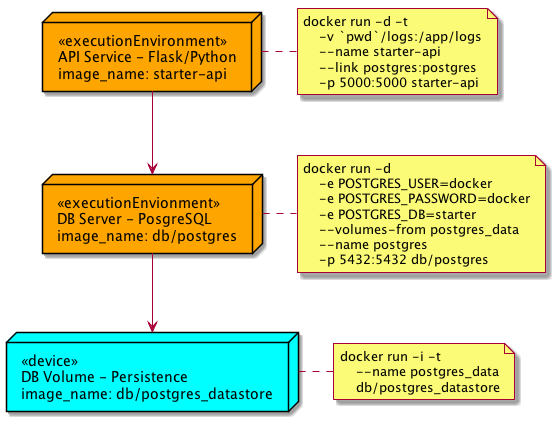
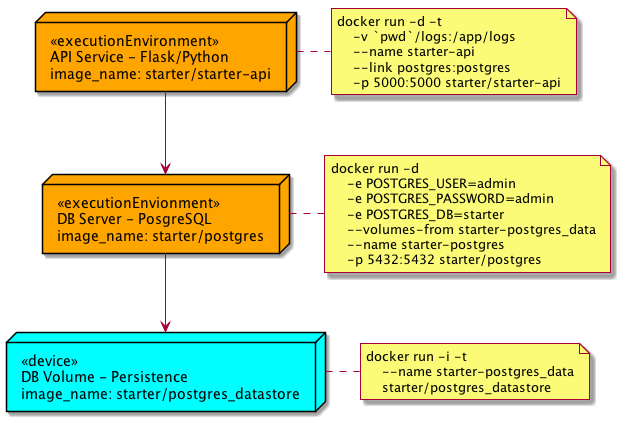
update README.md

diff --git a/README.md b/README.md
@@ -1,5 +1,5 @@
-## Microservices Architecture
-This example has been composed from the Microserivices Architecture style.
+# Microservices Architecture
+This example has been composed as the Microserivices Architecture style.
 With this style, we could provide service components with a realistic compostability. We recommend to read the Martin Fowler and James Lewis's white paper on Microservice architecture. Their white paper goes much more in-depth for the drivers behind the [Microservice Architecture](http://martinfowler.com/articles/microservices.html)
 
 Starter microservices documentations:
@@ -34,45 +34,70 @@ To shutdown and clear out the application stack,
 ./cleanupImages.sh
 ```
 
-To achieve any in between application state or retaining the built docker images,
+To achieve any in-between application state or retaining the built docker images,
 adjust the script running accordingly.
 
 The following section shows the details of the dockerization, therefore optional to read.
 
-
 ----------------
 ### Persistent Volumes with Docker - Data-only Container Pattern
+The main purpose of data container is to retain the `/var/lib/postgresql/data` persistent volume.
+Since you may have multiple data container running on the same host, the method to overcome
+docker recognized the image uniqueness is to give it an unique `README.md` file in the image.
 
 -- Dockerfile --
 
-    FROM busybox
-    VOLUME /var/lib/postgresql/data
-    CMD /bin/sh
+```
+FROM busybox
+VOLUME /var/lib/postgresql/data
+
+RUN mkdir /app
+WORKDIR /app
+
+ADD README.md /app/
+
+CMD /bin/sh
+```
 
 To create the volume image:
 
-    $ cd busybox
-    $ docker build -t tex/postgres_datastore .
+```
+cd busybox
+docker build -t starter/postgres_datastore .
+```
 
 To start the volume image container:
 
-    $ docker run -i -t --name postgres_exchange_data tex/postgres_exchange_datastore
+```
+docker run -i -t --name starter-postgres_data starter/postgres_datastore
+```
 
-Since the `postgres_exchange_data` container likely won't ever need to be updated, and if it does we can easily handle moving the data around as needed, we essentially work-around the issues of losing container data and we still have good portability.
+Since the `starter-postgres_data` container likely won't ever need to be updated, and if it does we can easily handle moving the data around as needed, we essentially work-around the issues of losing container data and we still have good portability.
 
-We can now create as many `tex/postgres_datastore` instances as we can handle and use volumes from as many `postgres_exchange_data` style containers as we want as well (provided unique naming or use of container ID's). This can much more easily be scripted than mounting folders ourselves since we are letting docker do the heavy lifting.
+We can now create as many `starter/postgres_datastore` instances as we can handle and use volumes from as many `starter-postgres_data` style containers as we want as well (provided unique naming or use of container ID's). This can much more easily be scripted than mounting folders ourselves since we are letting docker do the heavy lifting.
 
 One thing that's really cool is that these data-only containers don't even need to be running, it just needs to exist.
 
 --------------------------
 ### Create Postgres DB Image
+This is the creation of Posgres 10.2 docker images. Similar to the data-container image,
+we have copied an unique `README.md` into the image so that docker will recognize it's uniqueness.
+To prepare the image with `vim-tiny`, allows us to enter the container and perform some editing if needed.
+
 -- Dockerfile --
 
-    FROM postgres:10.2
+```
+FROM postgres:10.2
 
-    RUN apt-get update && apt-get install -y vim-tiny
+RUN apt-get update && apt-get install -y vim-tiny
 
-    EXPOSE 5432
+RUN mkdir /app
+WORKDIR /app
+
+ADD README.md /app/
+
+EXPOSE 5432
+```
 
 To create the DB image:
 
@@ -96,24 +121,33 @@ docker run -d \
 Try connect to starter-postgres container,
 
 ```bash
-psql -h starter-postgres -U admin starter
+psql -h localhost -U admin starter
 ```
 
 -----------------------
 ### Create API starter-api Image
-You can read the microservices [Starter API Documentation](starter-api/README.md)
+You can read the starter API microservices in [Starter API Documentation](starter-api/README.md).
+This is a Python/Flask RESTful API implementation, with connection to the Postgres backend
+to illustrate full CRUD operation on persistent data. Instead of automatically starting the Python application (see the commented out `ENTRYPOINT` and `CMD`), we shall start by the commandline.
 
 -- Dockerfile --
 
-    FROM python:3.5
+```
+FROM python:3.5
 
-    RUN mkdir /app
-    WORKDIR /app
+RUN mkdir /app
+WORKDIR /app
 
-    ADD requirements.txt /app/
-    RUN pip install -r requirements.txt
+ADD requirements.txt /app/
+RUN pip install -r requirements.txt
 
-    ADD . /app
+ADD . /app
+
+# If you want to start the Python application automatically, uncomment the following
+# EXPOSE 5000
+# ENTRYPOINT ["python", "manage.py", "runserver"]
+# CMD ["-t", "0.0.0.0", "-p", "5000"]
+```
 
 To create the API image:
 
@@ -128,14 +162,14 @@ To start the Starter API container:
 docker run -d -t \
     -v `pwd`/logs:/app/logs \
     --name starter-api \
-    -p 5000:5000 starter/starter-api
+    -p 5000:5000 starter/starter-api \
+    python manage.py runserver -t 0.0.0.0 -p 5000
 ```
 
 
-### Import Medical Procedural Codes into DB
---------------------------
-This instance, however, needs to be in the same Docker network as the current running network.
-When we started the stack instance, a network called `flask-db-docker_default` was created.
+### Import Medical Procedure Codes into DB
+For importing the medical procedure codes, we would like to start an `starter/starter-api` instance. However, this instance needs to be in the same Docker network as the current running network.
+When we started the stack, a network called `flask-db-docker_default` was created.
 To confirm this, we can run `docker network ls`.
 
     $ docker network ls
@@ -185,25 +219,25 @@ by running the following commands in `starter-api/startup` folder.
 python manage.py resetdb
 ```
 
-We create a new user `admin` with the password `admin` (of course this is not secure)
+We create a new user `admin` with the password `admin` (of course this is not secure).
 
-After the database has been created, we can exercise the database by inserting all the medical procedure coes from the `tex-api/startup` folder.
+After the database has been created, we can exercise the database by inserting all the medical procedure codes from the `tex-api/startup` folder.
 
 ```bash
 docker run --rm -t \
     --network flask-db-docker_default \
     -v `pwd`/starter-api/startup:/app/startup \
     starter/postgres /bin/bash -c \
-    "PGPASSWORD=admin psql -h starter-postgres -U admin starter < startup/starter_pxcodes.sql"
+    "PGPASSWORD=admin psql -h starter-postgres -U admin starter < /app/startup/starter_pxcodes.sql"
 ```
 
-We can get the medical procedural data from the `starter-api` that we have run.
+We can get the medical procedural data from the `starter-api` that we have loaded.
 
 ```bash
 http --auth admin:admin http://localhost:5000/api/v1.0/pxcodes/
 ```
 
-You should see the paged JSON response.
+You should see the paged JSON response of 100 medical procedure codes.
 
 ```
 HTTP/1.0 200 OK
